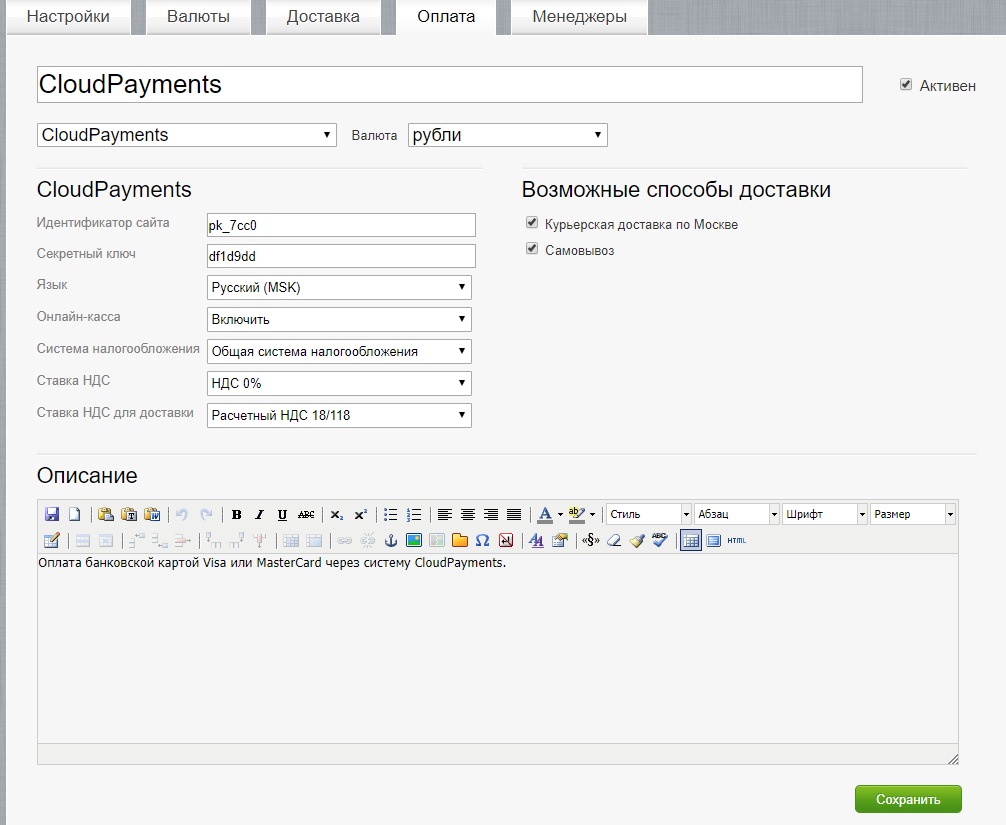
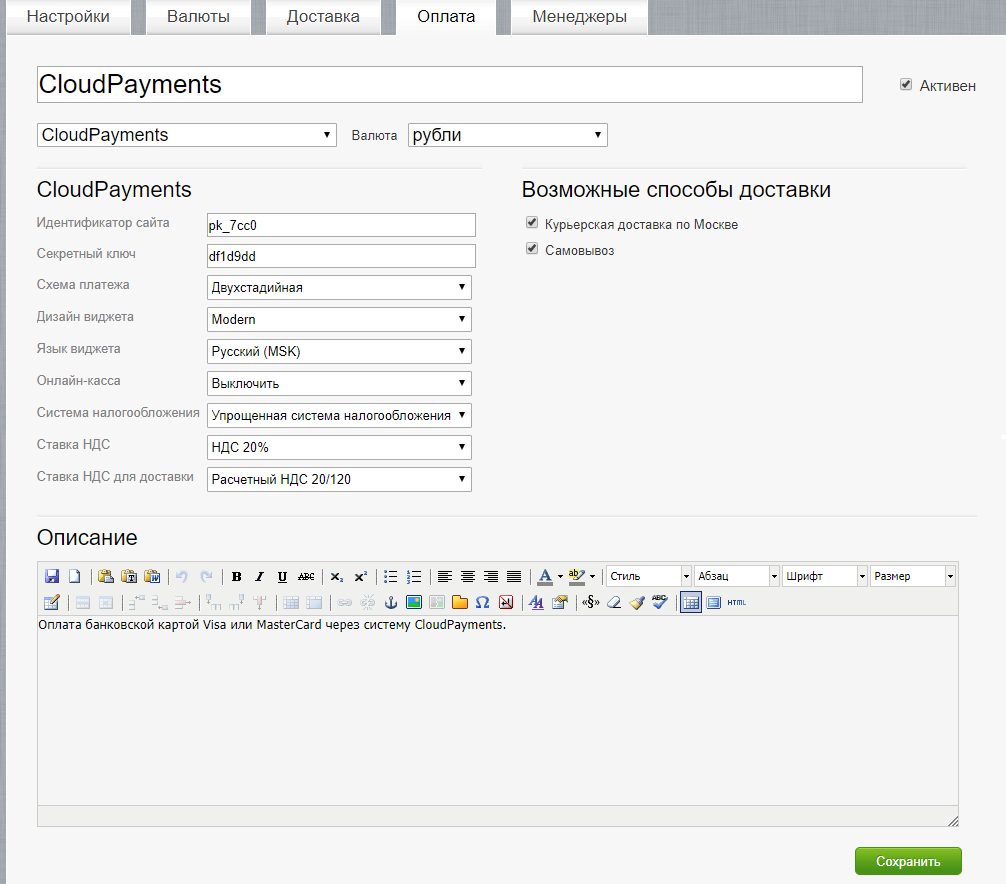
add v.1.2
add DMS, confirm , cancel and fix vat

diff --git a/CloudPayments/CloudPayments.php b/CloudPayments/CloudPayments.php
@@ -16,9 +16,10 @@ class CloudPayments extends Simpla {
 
         $order_description = 'Оплата заказа №' . $order->id;
 
-        $amount      = floatval($this->money->convert($order->total_price, $payment_method->currency_id, false));
-        $success_url = $this->config->root_url . '/order/' . $order->url;
-        $fail_url    = $this->config->root_url . '/order/' . $order->url;
+        $amount         = floatval($this->money->convert($order->total_price, $payment_method->currency_id, false));
+	$payment_scheme = $payment_settings['payment_scheme'];
+        $success_url    = $this->config->root_url . '/order/' . $order->url;
+        $fail_url       = $this->config->root_url . '/order/' . $order->url;
 
         $params = array(
             'publicId'    => $payment_settings['public_id'],  //id из личного кабинета
@@ -27,6 +28,7 @@ class CloudPayments extends Simpla {
             'currency'    => $payment_currency->code, //валюта
             'invoiceId'   => $order->id, //номер заказа  (необязательно)
             'accountId'   => $order->email, //идентификатор плательщика (необязательно)
+            'skin'    => $payment_settings['skin'],
             'data'        => array(
                 'name'          => $order->name,
                 'phone'         => $order->phone,
@@ -40,7 +42,7 @@ class CloudPayments extends Simpla {
         $lang   = $payment_settings['language'];
         $params = json_encode($params);
 
-        $button = "<script src=\"https://widget.cloudpayments.ru/bundles/cloudpayments\"></script>" . PHP_EOL;
+        $button = "<script src=\"https://widget.cloudpayments.ru/bundles/cloudpayments?cms=Simpla\"></script>" . PHP_EOL;
         $button .= "<form id='simpla_cloudpayments_form' method='post'>";
         $button .= "<input type='submit' value='" . $button_text . "'>";
         $button .= "</form>" . PHP_EOL;
@@ -62,7 +64,7 @@ class CloudPayments extends Simpla {
                     evt.cancelBubble = true;  
                 }
                 var widget = new cp.CloudPayments({language: '{$lang}'});
-                widget.charge({$params}, '{$success_url}', '{$fail_url}');
+                widget.{$payment_scheme}({$params}, '{$success_url}', '{$fail_url}');
             });
         </script>
 SCRIPT;
@@ -74,11 +76,13 @@ SCRIPT;
         $tax_system   = $payment_settings['taxation_system'];
         $receipt_data = array(
             'Items'          => array(),
+            'amounts'        => array(),
             'taxationSystem' => $tax_system,
+	        'calculationPlace'=>'www.'.$_SERVER['SERVER_NAME'],
             'email'          => $order->email,
             'phone'          => $order->phone
         );
-
+        $electronic = 0;
         $purchases = $this->orders->get_purchases(array('order_id' => intval($order->id)));
         $vat       = $payment_settings['vat'];
         if ($vat == 'none') {
@@ -94,6 +98,7 @@ SCRIPT;
                 'amount'   => floatval($price * $purchase->amount),
                 'vat'      => $vat
             );
+            $electronic = $electronic+floatval($price * $purchase->amount);
         }
         if ($order->delivery_price && !$order->separate_delivery) {
             $delivery_method = $this->delivery->get_delivery($order->delivery_id);
@@ -110,7 +115,9 @@ SCRIPT;
                 'amount'   => floatval($price),
                 'vat'      => $vat_delivery
             );
+            $electronic = $electronic+floatval($price);
         }
+        $receipt_data['amounts']['electronic'] = $electronic;
 
         return $receipt_data;
     }

diff --git a/CloudPayments/callback.php b/CloudPayments/callback.php
@@ -12,7 +12,7 @@ const CLOUDPAYMENTS_RESULT_ERROR_EXPIRED       = 20;
 
 //Проверяем наличие обязательных параметров
 $action = isset($_GET['s_action']) ? strtolower($_GET['s_action']) : '';
-if (!in_array($action, array('check', 'pay', 'fail', 'refund'))) {
+if (!in_array($action, array('check', 'pay', 'fail', 'refund', 'confirm', 'cancel'))) {
     exit_with_error(CLOUDPAYMENTS_RESULT_ERROR_NOT_ACCEPTED);
 }
 if (empty($_POST['InvoiceId']) || empty($_POST['Amount'])) {
@@ -43,7 +43,7 @@ if ($check_sign !== $request_sign) {
 };
 
 // Запросы связанные с оплатой
-$is_payment_callback = in_array($action, array('check', 'pay'));
+$is_payment_callback = in_array($action, array('check', 'pay', 'confirm'));
 
 // Нельзя оплатить уже оплаченный заказ
 if ($is_payment_callback && $order->paid) {
@@ -68,7 +68,7 @@ if ($is_payment_callback) {
     }
 }
 
-if ($action == 'pay' && $_POST['Status'] == 'Completed') {
+if (($action == 'pay' && $_POST['Status'] == 'Completed') || $action == 'confirm') {
     // Установим статус оплачен
     $simpla->orders->update_order(intval($order->id), array('paid' => 1));
 
@@ -78,12 +78,15 @@ if ($action == 'pay' && $_POST['Status'] == 'Completed') {
 
     // Спишем товары
     $simpla->orders->close(intval($order->id));
-} else if ($action == 'refund') {
+} else if ($action == 'refund' || $action == 'cancel') {
     $note = $order->note;
     if (!empty($note)) {
         $note .= "\n";
     }
-    $note .= 'Совершён полный возрат денежных средств.';
+    if ($action == 'refund') {
+    $note .= 'Совершён полный возврат денежных средств.';
+    }
+    else $note .= 'Платеж отменен.';
     // Установим статус не оплачен и запишем заметку
     $simpla->orders->update_order(intval($order->id), array('paid' => 0, 'note' => $note));
 

diff --git a/README.MD b/README.MD
@@ -9,7 +9,9 @@
 
 
 ### Возможности:  
-• Одностадийная схема оплаты;  
+• Одностадийная схема оплаты;
+• Двухстадийная схема оплаты;
+• Выбор дизайна виджета;
 • Поддержка онлайн-касс (ФЗ-54);  
 • Отправка чеков по email;  
 • Отправка чеков по SMS;  
@@ -25,8 +27,12 @@
 http://domain.ru/payment/CloudPayments/callback.php?s_action=check
 * **Уведомление о принятом платеже** (Pay):\
 http://domain.ru/payment/CloudPayments/callback.php?s_action=pay
-* **Уведомление о возврате платежа* (Refund):\
+* **Уведомление о подтверждении платежа** (Confirm):\
+http://domain.ru/payment/CloudPayments/callback.php?s_action=confirm
+* **Уведомление о возврате платежа** (Refund):\
 http://domain.ru/payment/CloudPayments/callback.php?s_action=refund
+* **Уведомление об отмене платежа** (Cancel):\
+http://domain.ru/payment/CloudPayments/callback.php?s_action=cancel
 
 Где domain.ru — доменное имя вашего сайта. Во всех случаях требуется выбирать вариант по умолчанию: кодировка — UTF-8, HTTP-метод — POST, формат — CloudPayments
 
@@ -48,3 +54,13 @@ http://domain.ru/payment/CloudPayments/callback.php?s_action=refund
 После указания всех данных сохранить настройки.
 
 ![Настройки CloudPayments в SimplaCMS](doc/img/simpla_settings.png)
+
+#### Changelog
+
+= 1.1 =
+* добавление двухстадийной схемы оплаты;  
+* добавление выбора дизайна виджета;  
+* правка значений ставок НДС;
+
+= 1.0 =
+* Публикация модуля.
